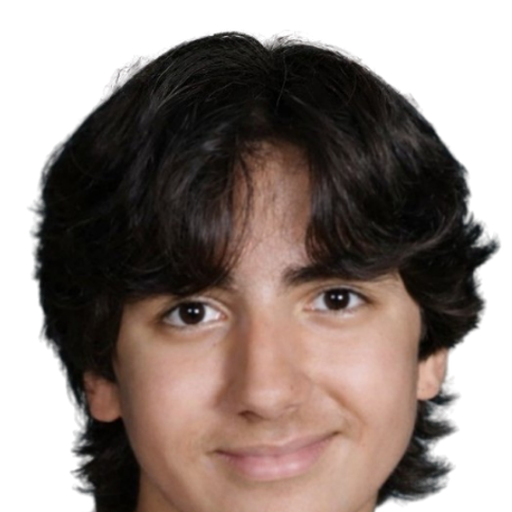
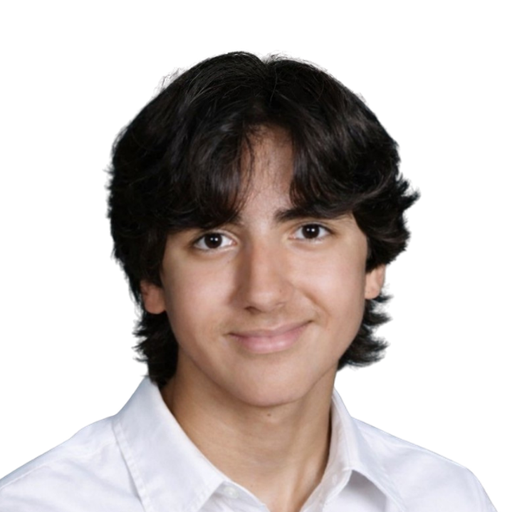
The photos come back, and the page takes a breath
The tilted photo strip returns to the hero — it carried the site's theme and
the products already show themselves one scroll below, so the screenshot
band was solving a problem the page didn't have. The hero also gets more air
under the fixed header (136px, 168px at md, up from 104/124), and the avatar
is recropped a third wider so the face sits at a natural distance instead of
filling the frame edge to edge.

diff --git a/app/page.tsx b/app/page.tsx
@@ -2,7 +2,7 @@ import Image from 'next/image';
 import Link from 'next/link';
 import HeroField from '@/components/HeroField';
 import { ProjectMark } from '@/components/Marks';
-import Marquee from '@/components/Marquee';
+import PhotoStrip from '@/components/PhotoStrip';
 import SocialRow from '@/components/SocialRow';
 import { featuredCards } from '@/content/cards';
 import { clientJobs } from '@/content/clients';
@@ -16,7 +16,7 @@ export default function Home() {
   return (
     <main id="main" className="flex-1">
       {/* --------------------------------------------------------- hero */}
-      <section className="corner-glow relative overflow-hidden pt-[104px] md:pt-[124px]">
+      <section className="corner-glow relative overflow-hidden pt-[136px] md:pt-[168px]">
         <HeroField />
         <div className="relative mx-auto w-full max-w-[var(--shell)] px-6 md:px-8">
           <div className="max-w-[40rem]">
@@ -64,7 +64,7 @@ export default function Home() {
         </div>
 
         <div className="rise-4 mt-12 md:mt-16">
-          <Marquee />
+          <PhotoStrip />
         </div>
       </section>
 
